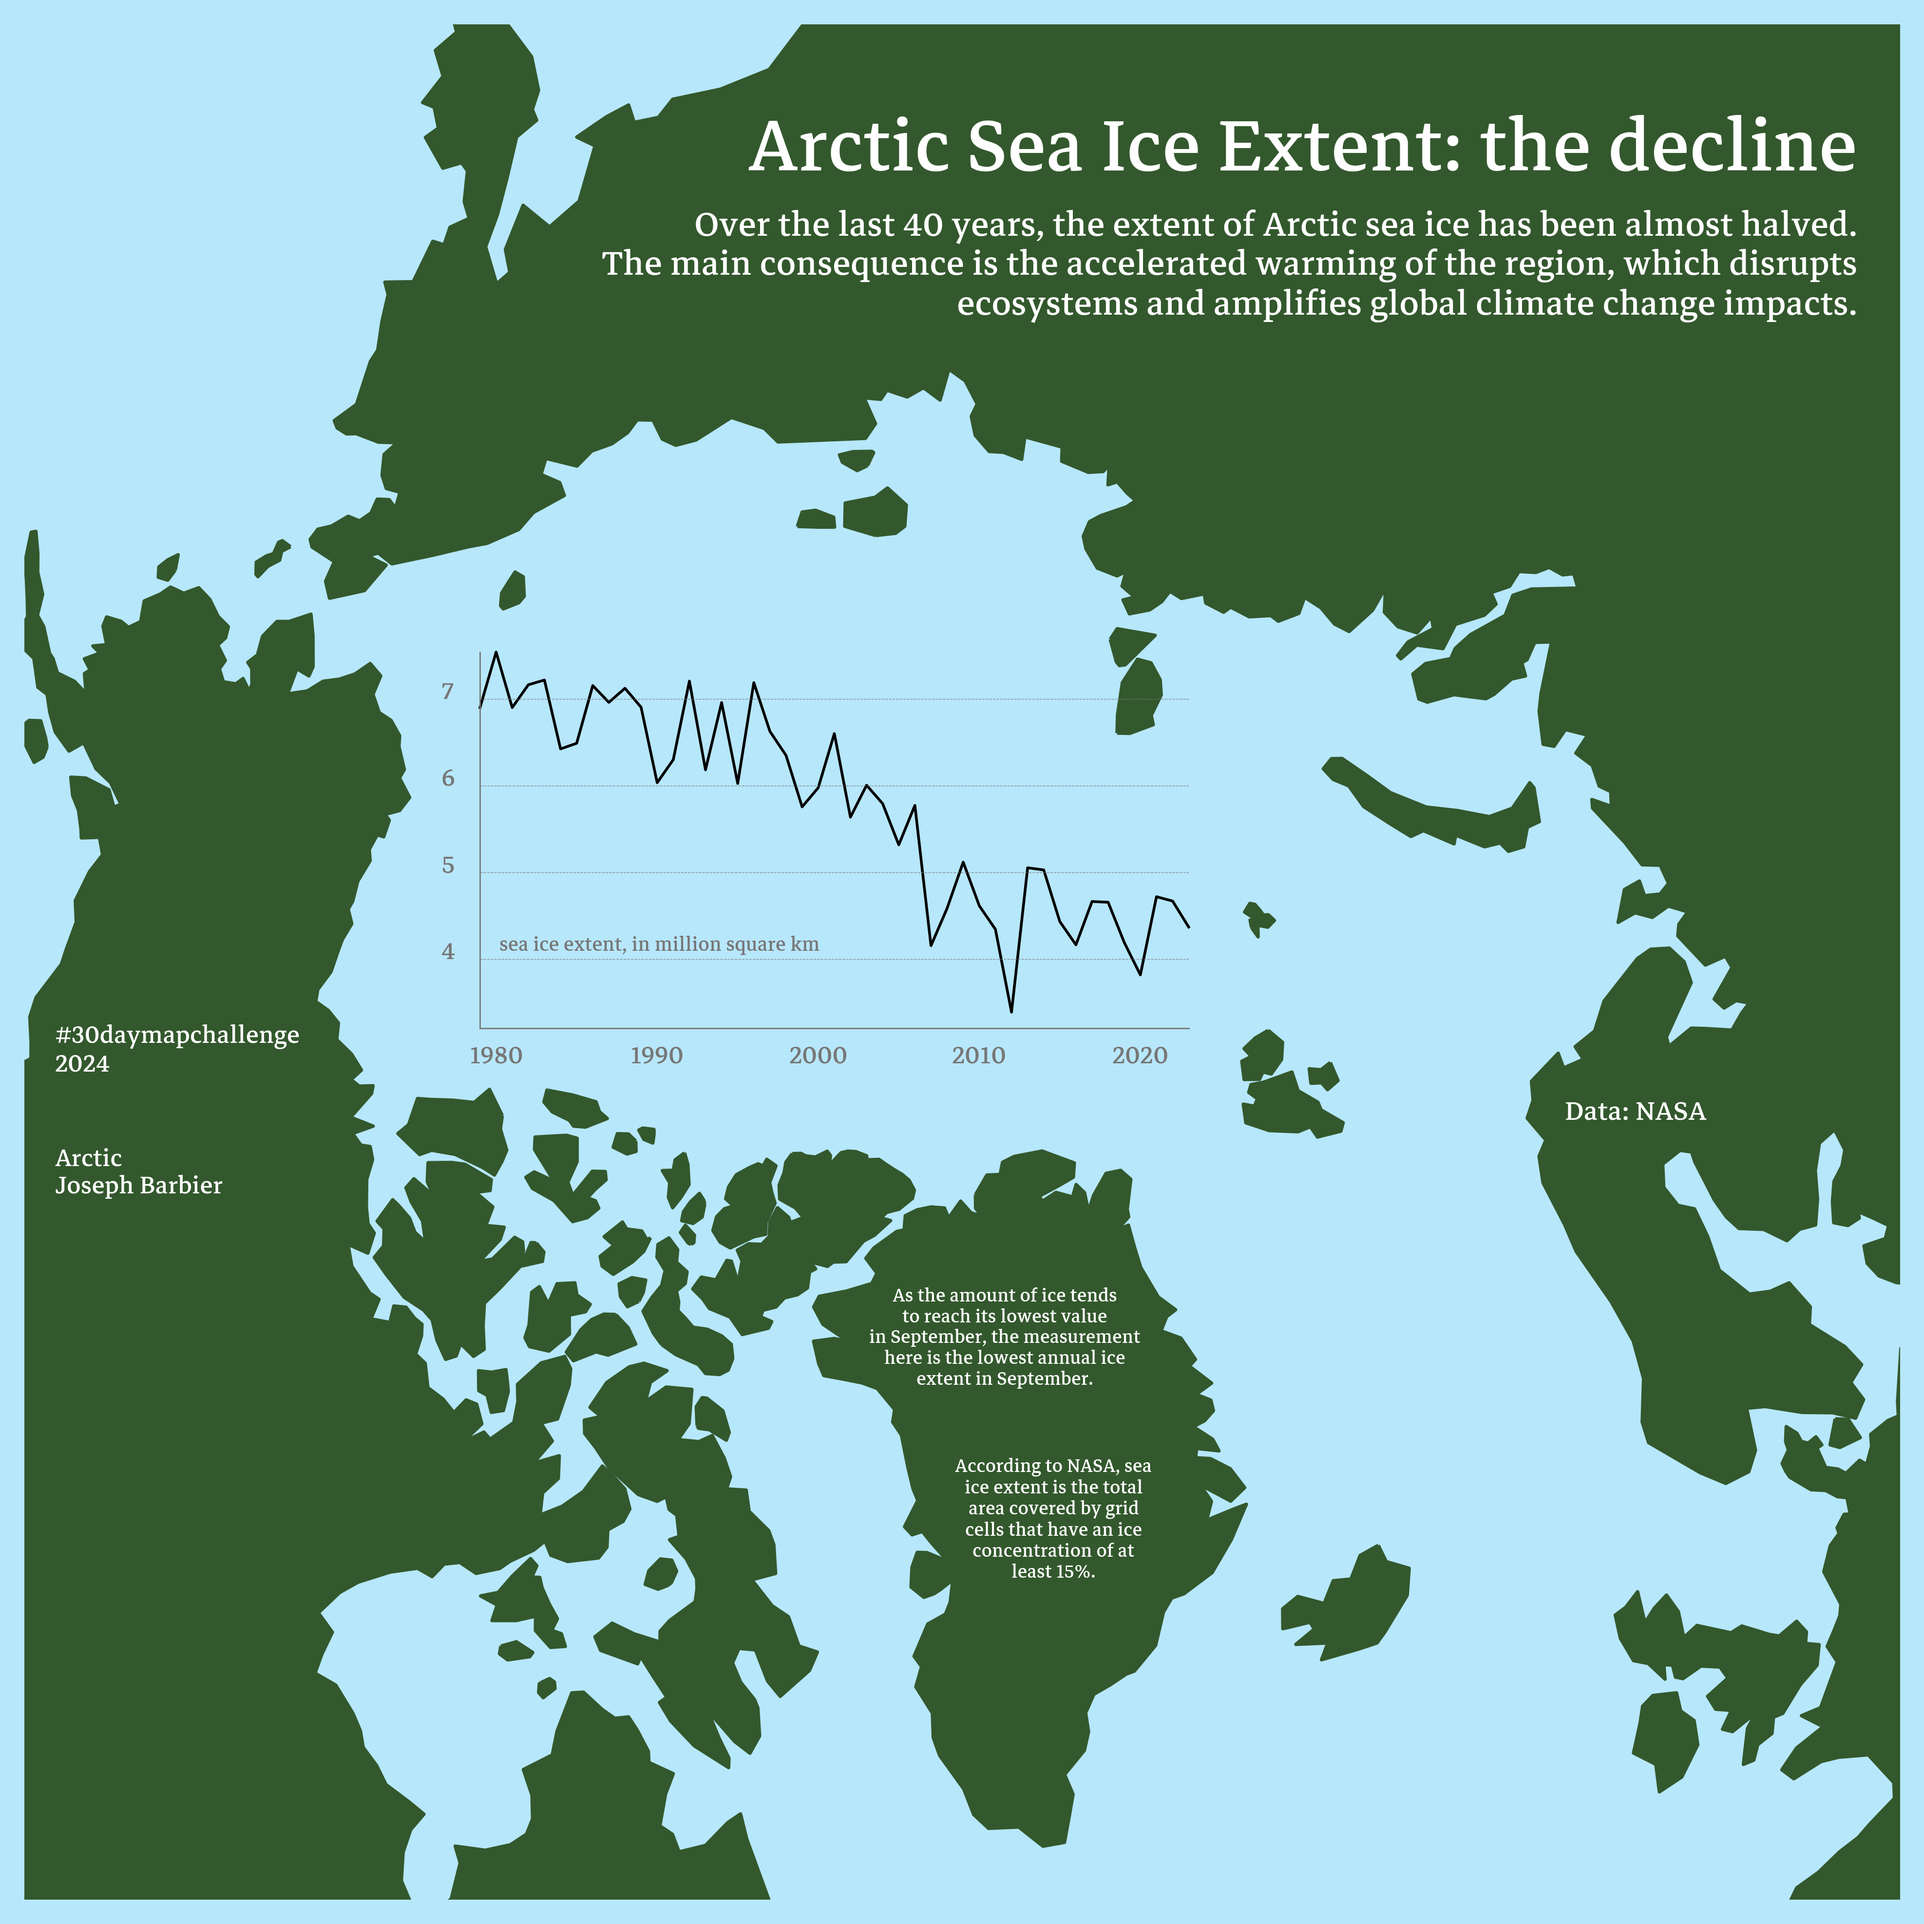
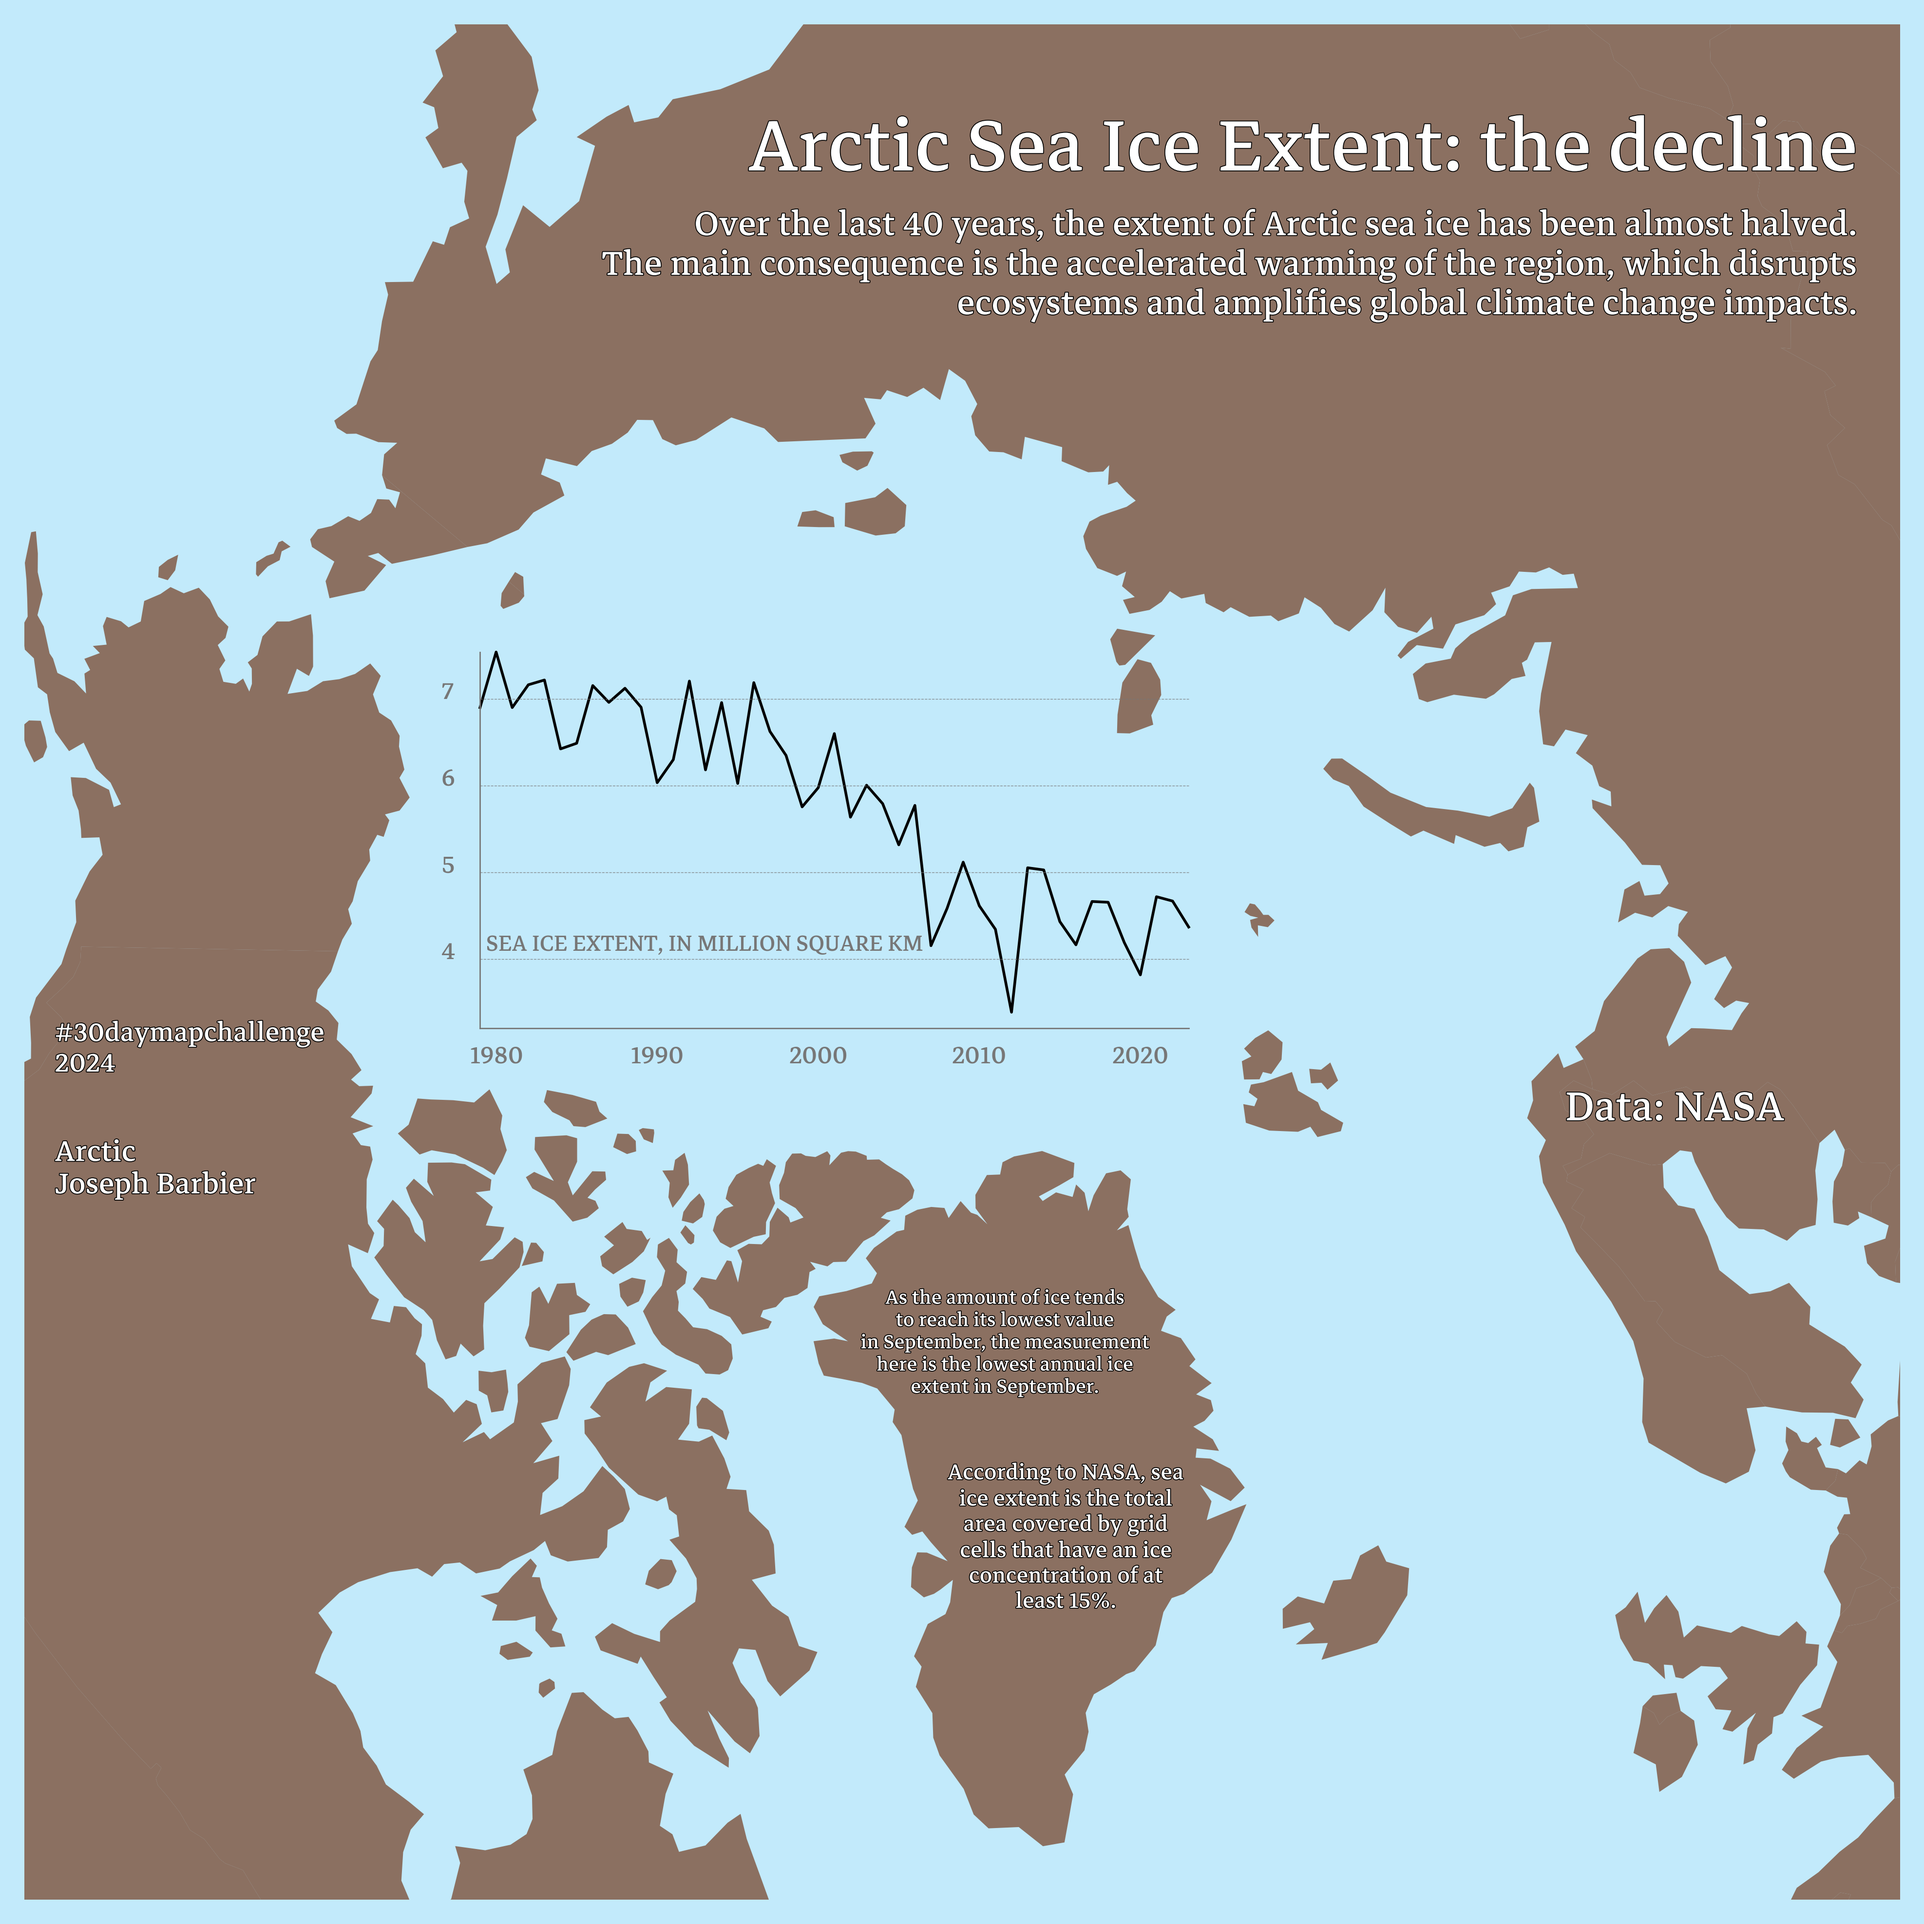
arctic

diff --git a/src/11-arctic/main.py b/src/11-arctic/main.py
@@ -1,5 +1,6 @@
 import pandas as pd
 import matplotlib.pyplot as plt
+import matplotlib.patheffects as path_effects
 import geopandas as gpd
 import cartopy.crs as ccrs
 from pyfonts import load_font
@@ -14,8 +15,8 @@ font = load_font(
     "https://github.com/BornaIz/markazitext/blob/master/fonts/ttf/MarkaziText-Regular.ttf?raw=true"
 )
 
-land_color = "#33582d"
-sea_color = "#b7e7fb"
+land_color = "#743d20"
+sea_color = "#c2eafb"
 axis_color = "#777777"
 line_color = "#000000"
 text_color = "#ffffff"
@@ -31,7 +32,7 @@ ax.set_xlim(xlims[0] * zoomx, xlims[1] * zoomx)
 ax.set_ylim(ylims[0] * zoomy, ylims[1] * zoomy)
 ax.axis("off")
 
-world_projected.plot(ax=ax, color=land_color, edgecolor=land_color)
+world_projected.plot(ax=ax, color=land_color, alpha=0.6)
 
 axline = ax.inset_axes(bounds=(0.3, 0.46, 0.32, 0.17), transform=fig.transFigure)
 axline.axis("off")
@@ -72,9 +73,9 @@ for value in range(4, 8):
 axline.text(
     x=df["year"].min() + 1.2,
     y=4.1,
-    s="sea ice extent, in million square km",
+    s="sea ice extent, in million square km".upper(),
     color=axis_color,
-    size=8,
+    size=12,
     font=font,
 )
 
@@ -86,6 +87,10 @@ fig.text(
     size=30,
     ha="right",
     font=font,
+    path_effects=[
+        path_effects.Stroke(linewidth=1, foreground="black"),
+        path_effects.Normal(),
+    ],
 )
 s = """
 Over the last 40 years, the extent of Arctic sea ice has been almost halved.
@@ -93,7 +98,18 @@ The main consequence is the accelerated warming of the region, which disrupts
 ecosystems and amplifies global climate change impacts.
 """
 fig.text(
-    x=0.88, y=0.82, s=s, color=text_color, size=14, ha="right", va="top", font=font
+    x=0.88,
+    y=0.82,
+    s=s,
+    color=text_color,
+    size=14,
+    ha="right",
+    va="top",
+    font=font,
+    path_effects=[
+        path_effects.Stroke(linewidth=1, foreground="black"),
+        path_effects.Normal(),
+    ],
 )
 
 s = """
@@ -104,7 +120,18 @@ here is the lowest annual ice
 extent in September.
 """
 fig.text(
-    x=0.53, y=0.37, s=s, size=7.5, ha="center", va="top", color=text_color, font=font
+    x=0.53,
+    y=0.37,
+    s=s,
+    size=7.5,
+    ha="center",
+    va="top",
+    color=text_color,
+    font=font,
+    path_effects=[
+        path_effects.Stroke(linewidth=1, foreground="black"),
+        path_effects.Normal(),
+    ],
 )
 
 s = """
@@ -116,15 +143,55 @@ concentration of at
 least 15%.
 """
 fig.text(
-    x=0.55, y=0.3, s=s, size=7.5, ha="center", va="top", color=text_color, font=font
+    x=0.55,
+    y=0.3,
+    s=s,
+    size=7.5,
+    ha="center",
+    va="top",
+    color=text_color,
+    font=font,
+    path_effects=[
+        path_effects.Stroke(linewidth=1, foreground="black"),
+        path_effects.Normal(),
+    ],
 )
 
-fig.text(x=0.76, y=0.43, s="Data: NASA", color=text_color, size=11, font=font)
 fig.text(
-    x=0.14, y=0.45, s="#30daymapchallenge\n2024", color=text_color, size=10, font=font
+    x=0.76,
+    y=0.43,
+    s="Data: NASA",
+    color=text_color,
+    size=11,
+    font=font,
+    path_effects=[
+        path_effects.Stroke(linewidth=1, foreground="black"),
+        path_effects.Normal(),
+    ],
 )
 fig.text(
-    x=0.14, y=0.4, s="Arctic\nJoseph Barbier", color=text_color, size=10, font=font
+    x=0.14,
+    y=0.45,
+    s="#30daymapchallenge\n2024",
+    color=text_color,
+    size=10,
+    font=font,
+    path_effects=[
+        path_effects.Stroke(linewidth=1, foreground="black"),
+        path_effects.Normal(),
+    ],
+)
+fig.text(
+    x=0.14,
+    y=0.4,
+    s="Arctic\nJoseph Barbier",
+    color=text_color,
+    size=10,
+    font=font,
+    path_effects=[
+        path_effects.Stroke(linewidth=1, foreground="black"),
+        path_effects.Normal(),
+    ],
 )
 
 plt.savefig("src/11-arctic/arctic.png", dpi=500, bbox_inches="tight")

diff --git a/README.md b/README.md
@@ -70,13 +70,13 @@ Skipped
 
 <br>
 
-<!-- ## 11 - Arctic
+## 11 - Arctic
 
 ![](src/11-arctic/arctic.png)
 
 <br>
 
-## 12 - Time and space
+<!-- ## 12 - Time and space
 
 ![](src/12-time_and_space/time_and_space.gif)
 
